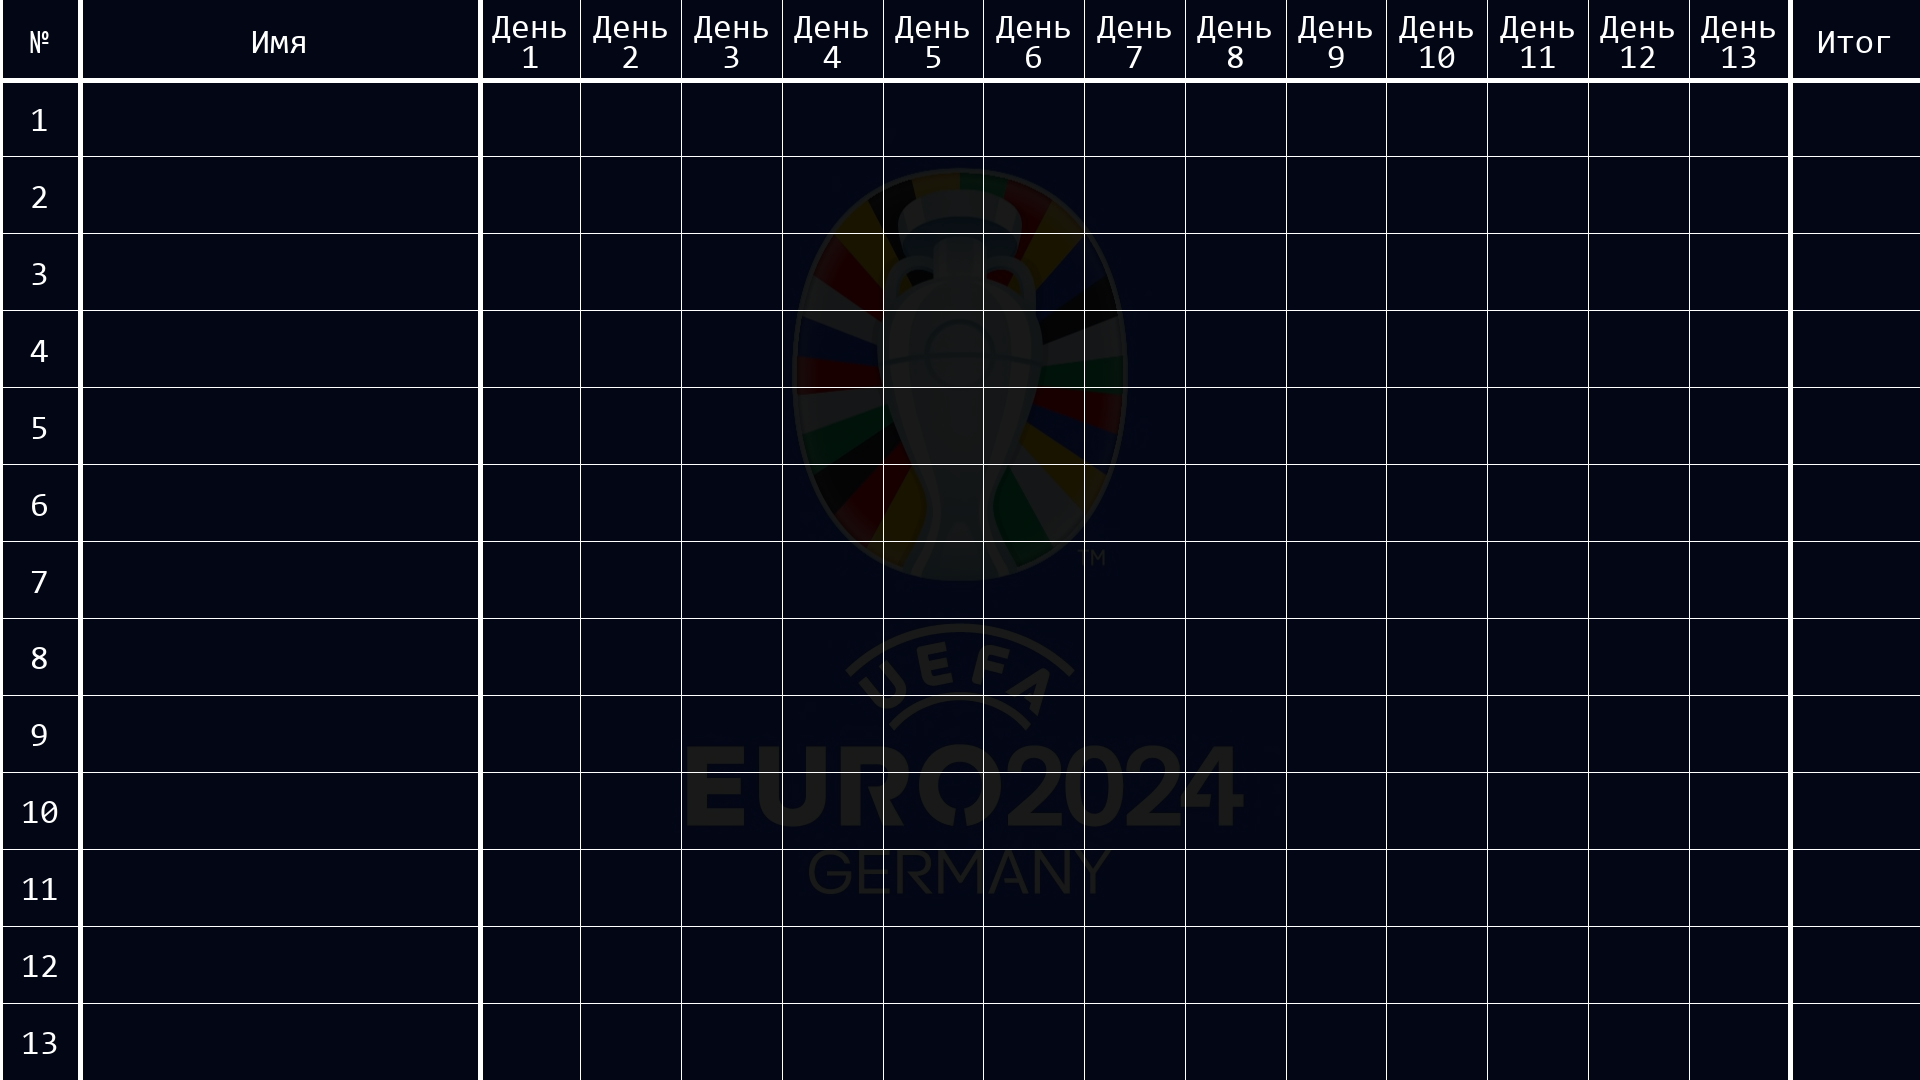
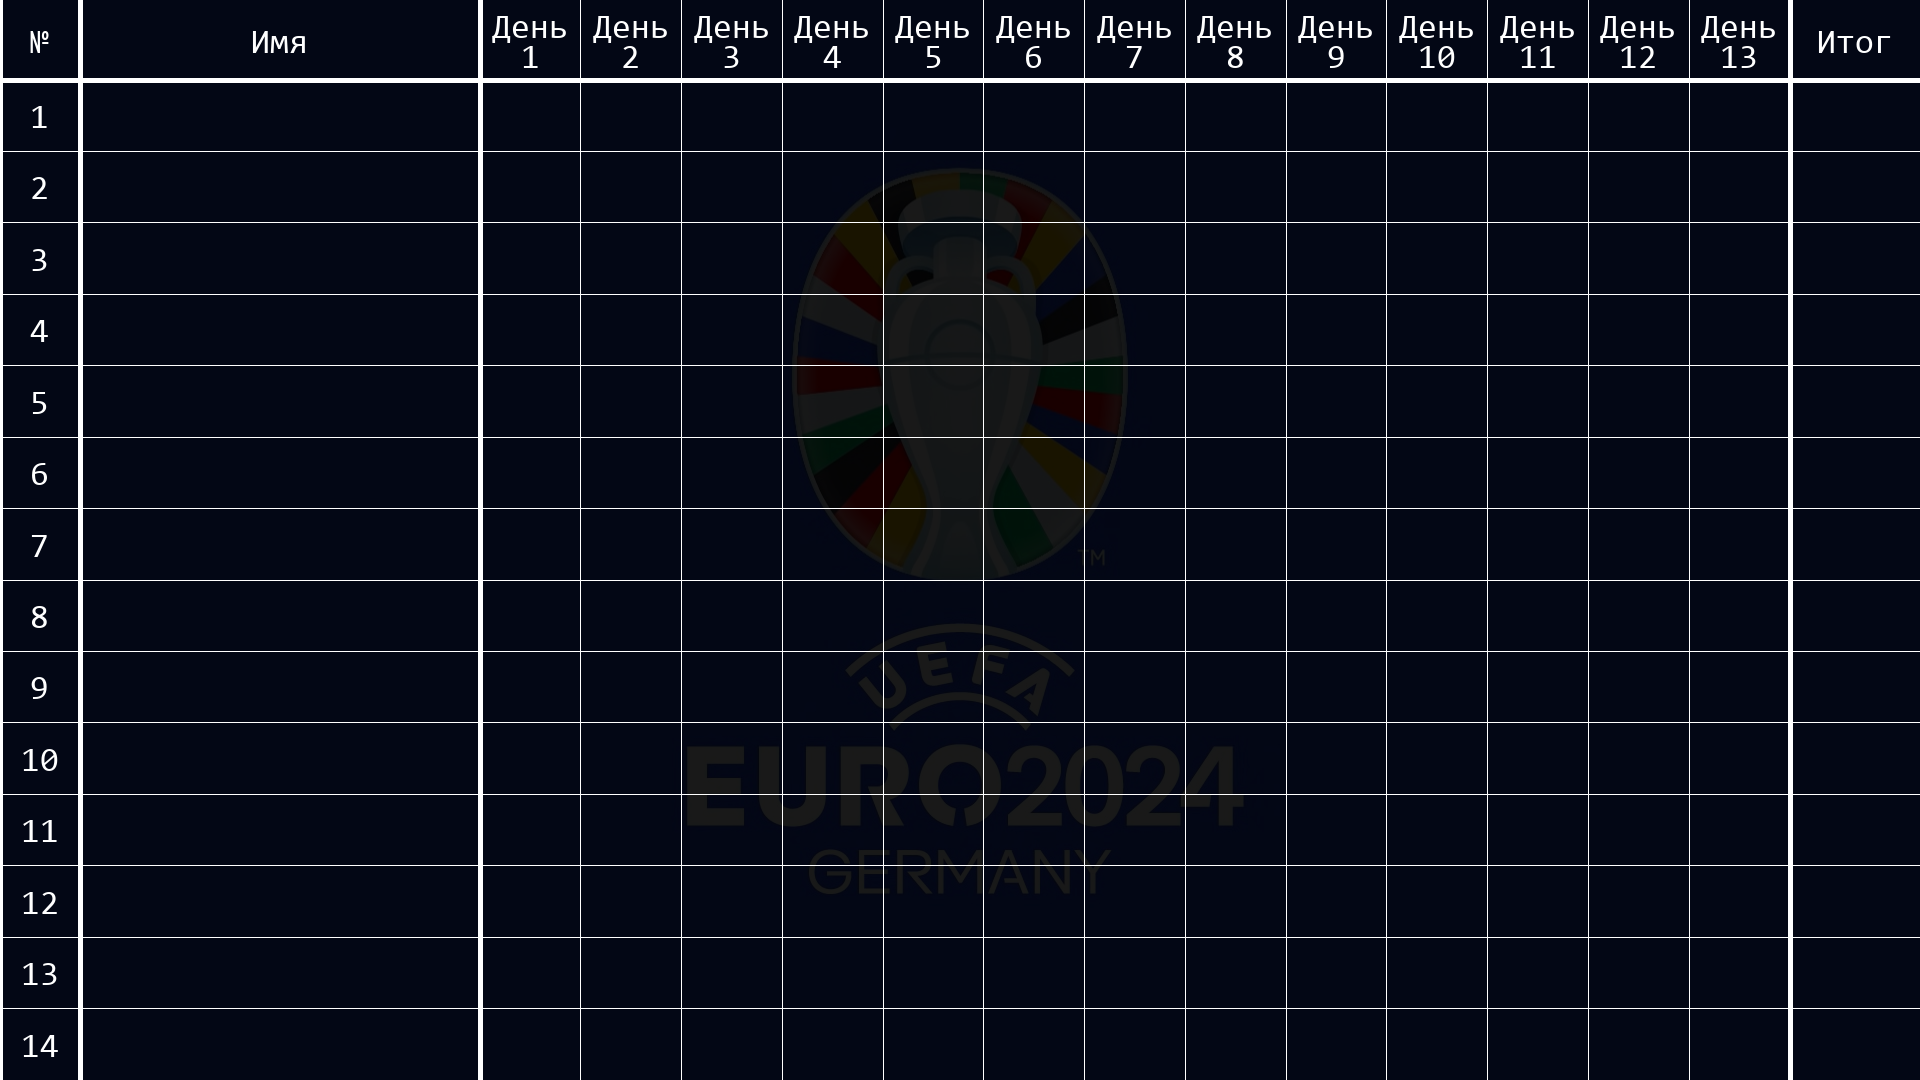
fix 14 player

diff --git a/config_data/config.py b/config_data/config.py
@@ -17,7 +17,7 @@ ADMIN_ID2 = os.getenv("ADMIN_ID2")
 
 NUMBER_OF_TOUR = 13
 SUM_COLUMN = 3
-NUMBER_OF_PLAYERS = 13
+NUMBER_OF_PLAYERS = 14
 COUNT_MATCHES_IN_TOUR = 4
 TOUR1_COLUMN = 4
 NICKNAME_COLUMN = 0 
